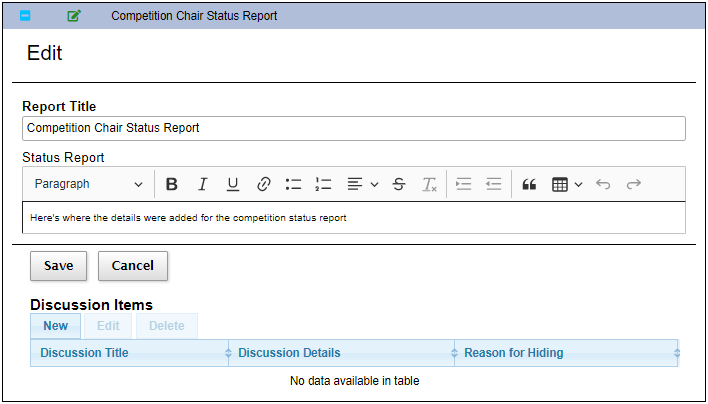
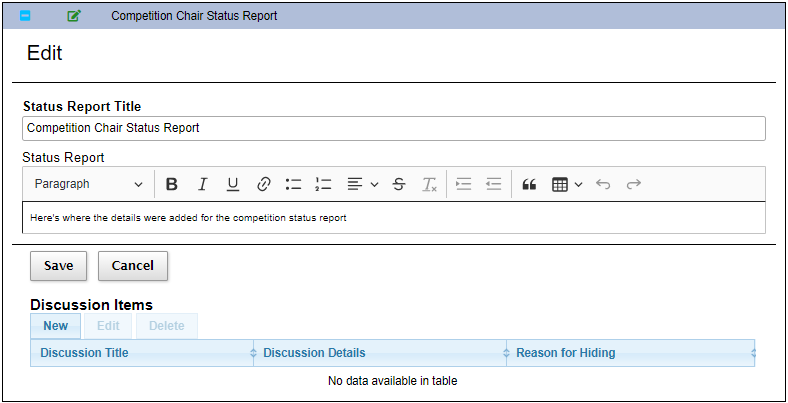
My Status Report view: now heading says "Status Report Title" (#305)

diff --git a/members/views/admin/meetings_member.py b/members/views/admin/meetings_member.py
@@ -321,7 +321,7 @@ class MemberStatusReportBase(DbCrudApiInterestsRolePermissions):
                  'title': 'Edit',
                  'render': {'eval': 'render_edit'},
                  },
-                {'data': 'title', 'name': 'title', 'label': 'Report Title',
+                {'data': 'title', 'name': 'title', 'label': 'Status Report Title',
                  'className': 'field_req',
                  },
                 {'data': 'statusreport', 'name': 'statusreport', 'label': 'Status Report',

diff --git a/members/version.py b/members/version.py
@@ -1,2 +1,2 @@
 # See https://packaging.python.org/guides/distributing-packages-using-setuptools/#semantic-versioning-preferred
-__version__ = '1.2.1.0'
+__version__ = '1.2.1.1.dev1'

diff --git a/docs/meetings-member-guide.rst b/docs/meetings-member-guide.rst
@@ -194,7 +194,7 @@ at the challenge, you will see a form to add an ad hoc :term:`status report`:
 .. image:: images/my-status-report-create.*
     :align: center
 
-* give the report a clear, concise **Report Title**
+* give the report a clear, concise **Status Report Title**
 * put details into the **Status Report** field
 * click **Create**
 
